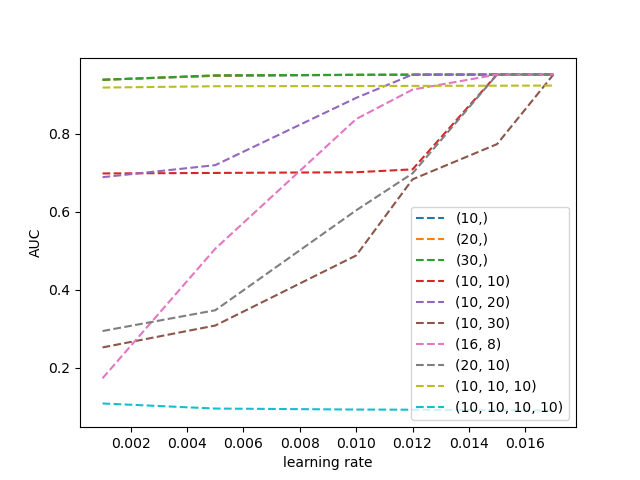
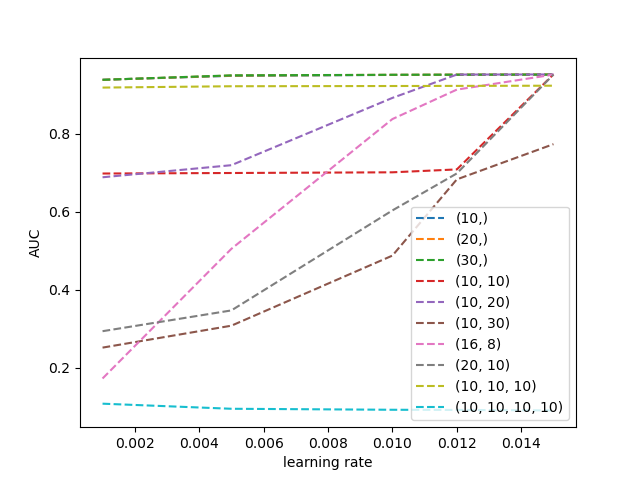
update

diff --git a/trialclass.py b/trialclass.py
@@ -65,7 +65,7 @@ def main():
     x_train.iloc[:, 3:] = transformer.fit_transform(x_train.iloc[:, 3:])
     x_test.iloc[:, 3:] = transformer.transform(x_test.iloc[:, 3:])
   
-    learning = np.array([0.001, 0.005, 0.01, 0.012, 0.015, 0.017])
+    learning = np.array([0.001, 0.005, 0.01, 0.012, 0.015])
 
     layers = [(10, ), (20, ), (30, ), 
           (10, 10), (10, 20), (10, 30),
